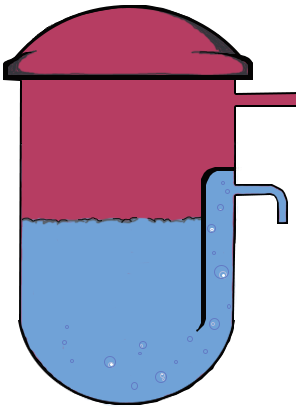
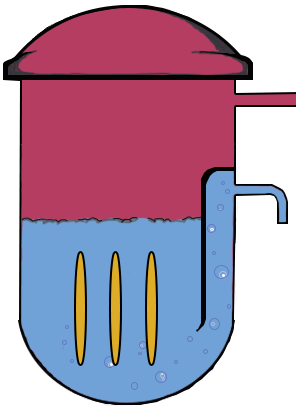
Final sprites; correct newgame prompt on startup.

Changed region(s): [[0.2432, 0.6176, 0.3041, 0.9118], [0.4865, 0.6176, 0.5473, 0.9118], [0.3649, 0.6176, 0.4257, 0.9118]]

diff --git a/src/main/java/gui/PlantDisplay.java b/src/main/java/gui/PlantDisplay.java
@@ -42,7 +42,7 @@ public class PlantDisplay extends JPanel {
         addComponentSprite(new ValveSprite(1), 392, 130);
         addComponentSprite(new TurbineSprite(), 380, 35);
         addComponentSprite(new CondenserSprite(), 425, 180);
-        addComponentSprite(new ControlRodSprite(100), 10, 10);
+        addComponentSprite(new ControlRodSprite(100), 53, 160);
         addComponentSprite(new PumpSprite(0), 295, 342);
         addComponentSprite(new PumpSprite(1), 295, 430);
         addComponentSprite(new PumpSprite(2), 590, 315);

diff --git a/src/main/java/gui/componentsprites/ControlRodSprite.java b/src/main/java/gui/componentsprites/ControlRodSprite.java
@@ -20,7 +20,7 @@ public class ControlRodSprite implements ComponentSprite {
     private int yOffset;
 
     public ControlRodSprite(int yRange) throws IOException {
-        sprite = BuildSprite.staticSprite("/scaled/control_rods.png");
+        sprite = BuildSprite.staticSprite("/fullsize/control_rods.png");
         this.yRange = yRange;
         yOffset = 0;
     }

diff --git a/src/main/java/gui/MainWindow.java b/src/main/java/gui/MainWindow.java
@@ -75,6 +75,7 @@ public class MainWindow extends JFrame implements ActionListener, ChangeListener
             pack();
 
             createMenus();
+            startNewGame();
         } catch (IOException ex) {
             ex.printStackTrace();
         }
